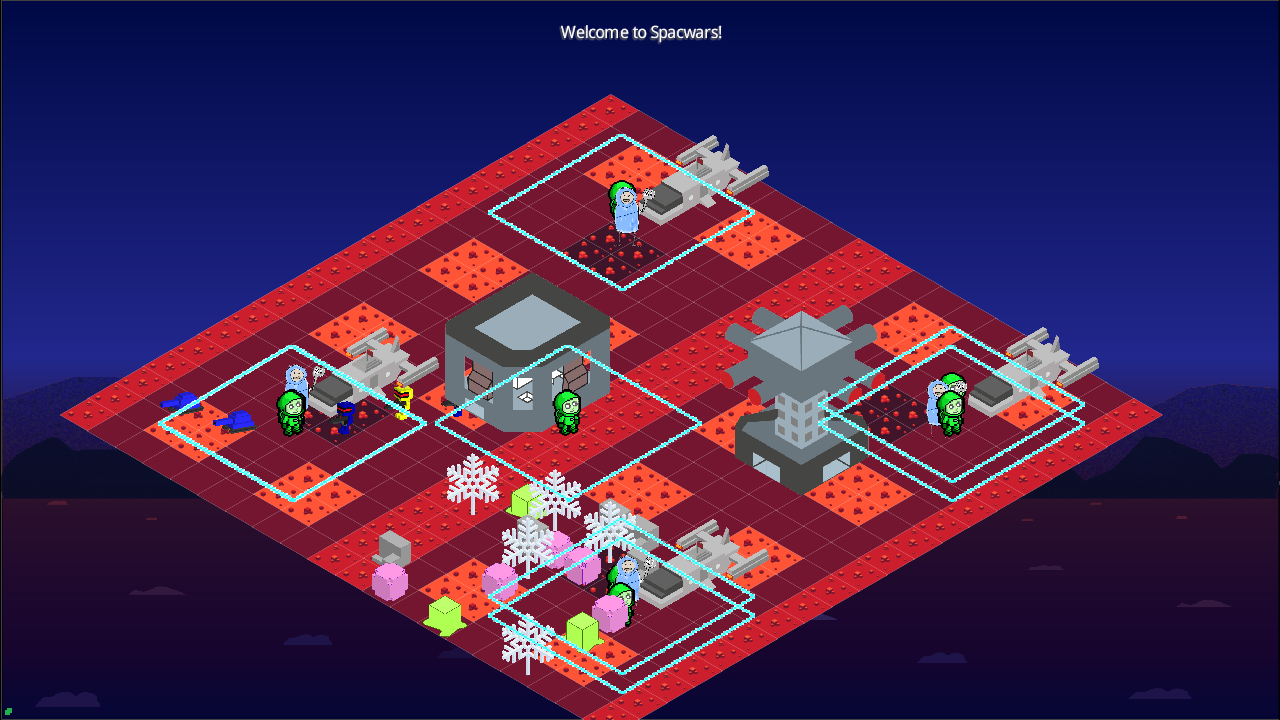
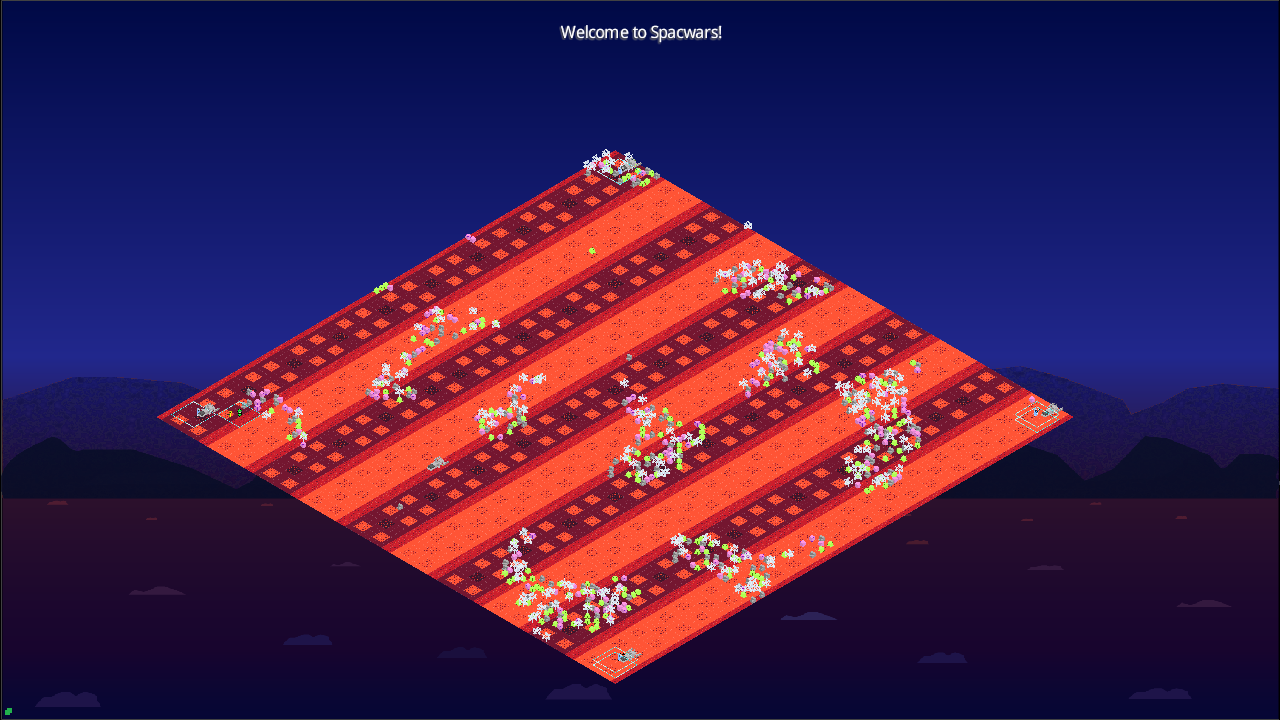
FogOfWar activated so that the player cannot see the enemy. Line of Sight is still there for easier development.

diff --git a/marswars/src/main/java/com/deco2800/marswars/managers/FogOfWarManager.java b/marswars/src/main/java/com/deco2800/marswars/managers/FogOfWarManager.java
@@ -86,47 +86,52 @@ public class FogOfWarManager extends Manager {
 	 * @param maxRange The sight range of the entity
 	 */
 	public static void sightRange(int x, int y, int maxRange, boolean state) {
-		if (state) {//set the new position on the map
-			for (int range = 1; range <= maxRange; range++) {
-				int w = fogOfWar.getWidth();
-				int l = fogOfWar.getLength();
-				for (int i = 0; i < range; i++) {
-					if (x + i < w && y + range - i < l) {
-						fogOfWar.set(x + i, y + range - i, 2);
+		int w = fogOfWar. getWidth();
+		int l = fogOfWar.getLength();
+
+			if (state) {//set the new position on the map
+				for(int i=-maxRange;i<=maxRange;i++){//for each row
+					for(int j=0;j<=maxRange;j++) {//for each column
+						if( x+j < w && y+i < l && y+i>=0){//to the right
+							fogOfWar.set(x+j,y+i,2);
+						}
+						if( x-j >= 0 && y+i < l && y+i>=0){//to the right
+							fogOfWar.set(x-j,y+i,2);
+						}
 					}
-					if (x + i < w && y - range + i >= 0) {
-						fogOfWar.set(x + i, y - range + i, 2);
-					}
-					if (x - i >= 0 && y + range - i < l) {
-						fogOfWar.set(x - i, y + range - i, 2);
-					}
-					if (x - i >= 0 && y - range + i >= 0) {
-						fogOfWar.set(x - i, y - range + i, 2);
-					}
+
 				}
-			}
+
+//				for (int i = 0; i < range; i++) {
+//					if (x + i < w && y + range - i < l) {
+//						fogOfWar.set(x + i, y + range - i, 2);
+//					}
+//					if (x + i < w && y - range + i >= 0) {
+//						fogOfWar.set(x + i, y - range + i, 2);
+//					}
+//					if (x - i >= 0 && y + range - i < l) {
+//						fogOfWar.set(x - i, y + range - i, 2);
+//					}
+//					if (x - i >= 0 && y - range + i >= 0) {
+//						fogOfWar.set(x - i, y - range + i, 2);
+//					}
+//				}
+
 		}
 		else {//delete the old position on the map
-			for (int range = 1; range <= maxRange; range++) {
-				int w = fogOfWar.getWidth();
-				int l = fogOfWar.getLength();
-				for (int i = 0; i < range; i++) {
-					if (x + i < w && y + range - i < l) {
-						fogOfWar.set(x + i, y + range - i, 0);
+			for(int i=-maxRange;i<=maxRange;i++){//for each row
+				for(int j=0;j<=maxRange;j++) {//for each column
+					if( x+j < w && y+i < l && y+i>=0){//to the right
+						fogOfWar.set(x+j,y+i,0);
 					}
-					if (x + i < w && y - range + i >= 0) {
-						fogOfWar.set(x + i, y - range + i, 0);
-					}
-					if (x - i >= 0 && y + range - i < l) {
-						fogOfWar.set(x - i, y + range - i, 0);
-					}
-					if (x - i >= 0 && y - range + i >= 0) {
-						fogOfWar.set(x - i, y - range + i, 0);
+					if( x-j < w && y+i < l && y+i>=0){//to the right
+						fogOfWar.set(x-j,y+i,0);
 					}
 				}
+
+			}
 
 			}
 		}
 
 	}
-}

diff --git a/marswars/src/main/java/com/deco2800/marswars/renderers/Render3D.java b/marswars/src/main/java/com/deco2800/marswars/renderers/Render3D.java
@@ -10,6 +10,8 @@ import com.badlogic.gdx.maps.tiled.renderers.IsometricTiledMapRenderer;
 import com.badlogic.gdx.math.Vector3;
 import com.deco2800.marswars.entities.BaseEntity;
 import com.deco2800.marswars.entities.FogOfWarLayer;
+import com.deco2800.marswars.entities.Selectable;
+import com.deco2800.marswars.managers.FogOfWarManager;
 import com.deco2800.marswars.managers.GameManager;
 import com.deco2800.marswars.managers.TextureManager;
 import com.deco2800.marswars.worlds.FogWorld;
@@ -162,8 +164,12 @@ public class Render3D implements Renderer {
 
         /* Render each entity (backwards) in order to retain objects at the front */
         for (int index = 0; index < entities.size(); index++) {
+
             Renderable entity = entities.get(index);
 
+            if(entities.get(index).getEntityType()==BaseEntity.EntityType.UNIT) {
+                if (FogOfWarManager.getFog((int) entity.getPosX(), (int) entity.getPosY()) == 0) continue;
+            }
 
             String textureString = entity.getTexture();
             TextureManager reg = (TextureManager) GameManager.get().getManager(TextureManager.class);

diff --git a/marswars/src/main/java/com/deco2800/marswars/entities/Spacman.java b/marswars/src/main/java/com/deco2800/marswars/entities/Spacman.java
@@ -70,6 +70,7 @@ public class Spacman extends BaseEntity implements Tickable, Clickable, HasHealt
 		this.addNewAction(ActionType.BUILD);
 		this.nextAction = null;
 		int fogScaleSize=5;//this number should always be odd (the size of the line of sight edge
+
 		lineOfSight = new LineOfSight(posX,posY,posZ,fogScaleSize,fogScaleSize);
 		FogWorld fogWorld = GameManager.get().getFogWorld();
 		fogWorld.addEntity(lineOfSight,fogScaleSize);
@@ -117,7 +118,7 @@ public class Spacman extends BaseEntity implements Tickable, Clickable, HasHealt
 		super.setPosY(y);
 		lineOfSight.setPosY(y);
 		if(owner instanceof PlayerManager) {
-			modifyFogOfWarMap(false);
+			modifyFogOfWarMap(true);
 		}
 
 	}

diff --git a/marswars/src/main/java/com/deco2800/marswars/entities/BaseEntity.java b/marswars/src/main/java/com/deco2800/marswars/entities/BaseEntity.java
@@ -98,7 +98,7 @@ public class BaseEntity extends AbstractEntity implements Selectable {
 
 	/**
 	 * Sets the build speed modifier for this entity
-	 * @param cost
+	 * @param speed
 	 */
 	public void setSpeed(float speed) {
 		this.buildSpeed = speed;
